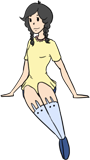
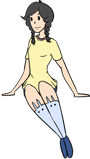
Parpadeo habilitado

Changed region(s): [[0.0, 0.0, 1.0, 1.0]]

diff --git a/core/src/com/mh/itesm/ScreenOne.java b/core/src/com/mh/itesm/ScreenOne.java
@@ -41,7 +41,9 @@ public class ScreenOne extends Pantalla {
     private Texture BackgroundLayerOne;   // Imagen que se muestra
     //Peronajes no tan interactuables
     private Texture esposaParada;
+    private Texture esposaParadaPar;
     private Texture hijaSentada;
+    private Texture hijaSentadaPar;
     private Objeto lienzo;
     private Texture texturaLienzo;
 
@@ -69,6 +71,8 @@ public class ScreenOne extends Pantalla {
     private Texture texturaBtnPintura;
     //Variable para llevar un cronometro para manejar texturas
     private float tiempo;
+    private float tiempoParpadeo;
+    private final float TIEMPO_PASO = 0.5f; //la usaremos para el parpadeo
 
     //Transparencia por int para ir reduciendo
     private float textoTransparencia;
@@ -156,7 +160,9 @@ public class ScreenOne extends Pantalla {
         BackgroundLayerOne = new Texture("ScreenOne/Fondo.png");
         //Textura personajes estaticos
         esposaParada = new Texture("Characters/EsposaNORMAL.png");
+        esposaParadaPar=new Texture("Characters/EsposaParpadeo.png");
         hijaSentada = new Texture("Characters/HijaNORMAL.png");
+        hijaSentadaPar=new Texture("Characters/HijaParpadeo.png");
         texturaLienzo = manager.get("Lienzo.png");
         //pausa con el manager ponerlo en otro metodo si uso manager???
         texturaBtnPausa = manager.get("comun/btnPausa.png");
@@ -208,7 +214,15 @@ public class ScreenOne extends Pantalla {
         //dibujando personajes y elementosIMPLEMENTAR PARPADEO
 
         batch.draw(esposaParada, 750, 60);
-        batch.draw(hijaSentada, 950, 110);
+        batch.draw(hijaSentada, 957, 110);
+        //Manejo del parpadeo esposa
+        if (tiempoParpadeo>=TIEMPO_PASO) {
+            tiempoParpadeo = 0;
+            batch.draw(esposaParadaPar,750,60);
+            batch.draw(hijaSentadaPar, 957, 110);
+        }
+
+
         //dibujar imagen pintura, al clickear el metodo recibira una imagen dependiendo de la que mande
         //boton
         //AGREGAR QUE SI COLISIONO APAREZCA EL LIENZO
@@ -230,6 +244,8 @@ public class ScreenOne extends Pantalla {
         dibujarEstado(batch);
         batch.end();
         tiempo += Gdx.graphics.getDeltaTime();
+        //Tiempo parpadeo
+        tiempoParpadeo +=Gdx.graphics.getDeltaTime();
         if (estadoJuego == EstadoJuego.PAUSADO) {
             escenaPausa.draw();
         }
